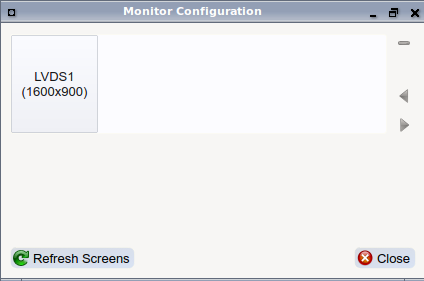
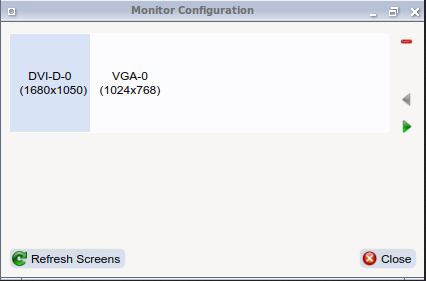
Update xconfig screenshot to show a system with 2 video inputs.

Changed region(s): [[0.0, 0.0, 1.0, 1.0], [0.0, 0.1139, 0.3986, 0.4555], [0.0307, 0.4555, 0.2146, 0.484]]

diff --git a/src-qt5/docs/desktops.rst b/src-qt5/docs/desktops.rst
@@ -672,7 +672,7 @@ Figure 6.9o.
 
 .. image:: images/lumina15.png
 
-In this example, only one monitor is attached to the system. If multiple monitors are attached, each will be displayed along with their current screen resolution.
+In this example, two monitors are attached to the system and each is displayed along with their current screen resolution.
 
 .. index:: LXDE
 .. _LXDE:
